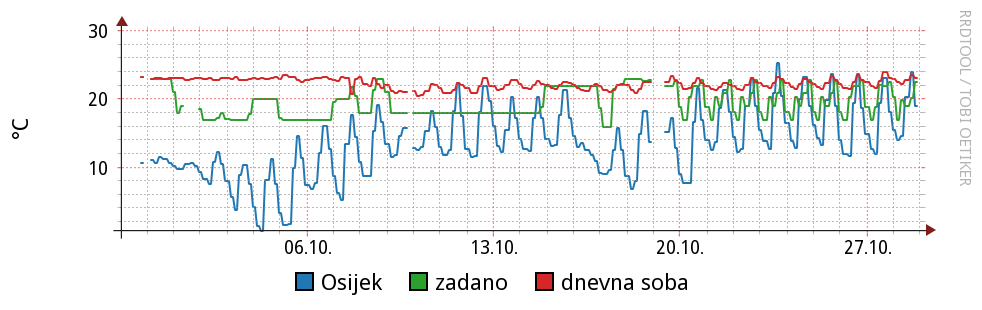
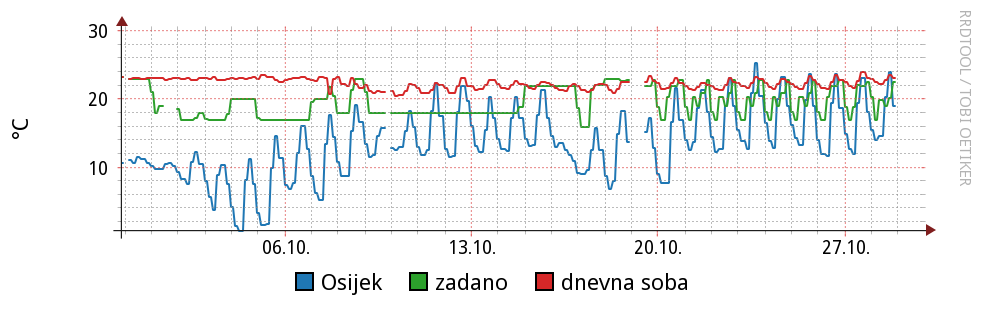
fix for graph painting (for heater)

diff --git a/app/rrdb-tools.js b/app/rrdb-tools.js
@@ -203,26 +203,32 @@ var paintTemps = function(cb) {
 
 
   execute(graphStrDay + graphStrDefaults, function(out, err) {
-    if (err) throw err;
-
-    console.log("  painted DAY");
+    if (err) {
+      console.error(err);
+    } else {
+      console.log("  painted DAY");
+    }
 
     // only update if actually painted
     lastPaintedMillis = currTimeMillis;
 
     execute(graphStrWeek + graphStrDefaults, function(out, err) {
-      if (err) throw err;
-
-      console.log("  painted WEEK");
+      if (err) {
+        console.error(err);
+      } else {
+        console.log("  painted WEEK");
+      }
 
       execute(graphStrMonth + graphStrDefaults, function(out, err) {
-        if (err) throw err;
-
-        console.log("  painted MONTH");
+        if (err) {
+          console.error(err);
+        } else {
+          console.log("  painted MONTH");
+        }
 
         paintTempsAndState(function() {
           if (typeof(cb) == "function") {
-            cb(true); // updated
+            cb(!err); // updated
           }
         });
       });
@@ -244,7 +250,7 @@ var paintTempsAndState = function(cb) {
     'DEF:mytemp_preset=' + config.app_dir + "/" + config.rrd_temps_name + ':temp_preset:AVERAGE ' +
     'DEF:mytemp_living=' + config.app_dir + "/" + config.rrd_temps_name + ':temp_living:AVERAGE ' +
     'DEF:mytemp_osijek=' + config.app_dir + "/" + config.rrd_temps_name + ':temp_osijek:AVERAGE ' +
-    'DEF:myheater_state=' + config.app_dir + "/" + config.rrd_state_name + ':heater_state:LAST ' +
+    'DEF:myheater_state=' + config.app_dir + "/" + config.rrd_state_name + ':heater_state:AVERAGE ' +
     'CDEF:myheater_state_rel=myheater_state,0.5,GT,mytemp_preset,0,IF ' +
     'AREA:myheater_state_rel#FE7F0E:"grijac" ' +
     'LINE:mytemp_osijek#1F77B4:"Osijek" ' +
@@ -252,12 +258,14 @@ var paintTempsAndState = function(cb) {
     'LINE:mytemp_living#D62728:"dnevna soba"';
 
   execute(graphStrHour + graphStrDefaults, function(out, err) {
-    if (err) throw err;
-
-    console.log("  painted HOUR");
+    if (err) {
+      console.error(err);
+    } else {
+      console.log("  painted HOUR");
+    }
 
     if (typeof(cb) == "function") {
-      cb(true); // updated
+      cb(!err); // updated
     }
   });
 };
